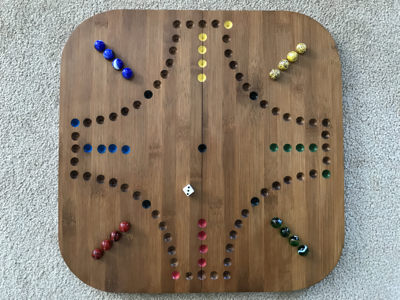
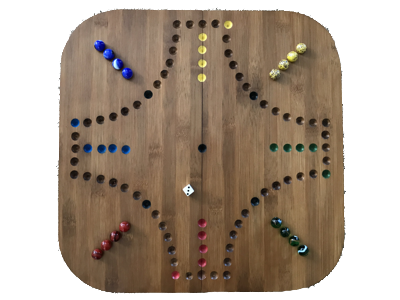
added email confirmations and themes

diff --git a/app/assets/javascripts/marbles.js b/app/assets/javascripts/marbles.js
@@ -270,6 +270,7 @@ $(document).ready(() => {
 		var plays = parseInt(document.getElementById('game_plays').innerHTML);
 		comment = document.getElementById("game_comment").innerHTML;
 		user_name = document.getElementById("user_name").innerHTML.split(" ")[0];
+		user_theme = document.getElementById("user_theme").innerHTML;
 		id = document.getElementById("game_id").innerHTML;
 /* convert strings in page to arrays */	
 		var board = (document.getElementById("game_board").innerHTML).split(",");
@@ -400,6 +401,7 @@ $(document).ready(() => {
 		var turn = parseInt($("#game_turn").val());
 		var comment = $("#game_comment").val();
 		user_name = document.getElementById("user_name").innerHTML.split(" ")[0];
+		user_theme = document.getElementById("user_theme").innerHTML;
 
 /* convert strings in form to arrays */	
 		var board = ($("#game_board").val()).split(","); 
@@ -752,11 +754,11 @@ $(document).ready(() => {
 		}
 		player_name = getPlayerName(color);
 		if (player_name != "") {
-			x = hole_x - 100;
-			y = hole_y + 40;
+			x = hole_x - 120;
+			y = hole_y + 10;
 			labelBoard(x, y, player_name, color, "playername", "leftPlayer");
 			x = hole_x - 100 + 10;
-			y = hole_y + 50 + 25;
+			y = hole_y + 25 + 10;
 			card_count = getCardCount(color);
 			if (card_count>=0) {
 				labelBoard(x, y, card_count, "white", "boardlabel", "leftPlayer")			
@@ -786,12 +788,12 @@ $(document).ready(() => {
 		}
 		player_name = getPlayerName(color);
 		if (player_name != "") {
-			x = hole_x - 60;
+			x = hole_x - 80;
 			y = hole_y - 70;
 			labelBoard(x, y, player_name, color, "playername", "upperPlayer");
 			card_count = getCardCount(color);
 			x = hole_x - 60 + 10;
-			y = hole_y - 60 + 25;
+			y = hole_y - 60 + 15;
 			if (card_count>=0) {
 				labelBoard(x, y, card_count.toString(), "white", "boardlabel", "upperPlayer")			
 			} else {
@@ -821,12 +823,12 @@ $(document).ready(() => {
 		/* Draw the players name */
 		player_name = getPlayerName(color);
 		if (player_name != "") {
-			x = hole_x + 80;
-			y = hole_y - 60;
+			x = hole_x + 40;
+			y = hole_y - 30;
 			labelBoard(x, y, player_name, color, "playername", "rightPlayer");
 			card_count = getCardCount(color);
-			x = hole_x + 80 + 10;
-			y = hole_y - 50 + 25;
+			x = hole_x + 60 + 10;
+			y = hole_y - 30 + 25;
 			if (card_count>=0) {
 				labelBoard(x, y, card_count.toString(), "white", "boardlabel", "rightPlayer")			
 			} else {
@@ -857,8 +859,8 @@ $(document).ready(() => {
 		/* Draw the players name */
 		player_name = getPlayerName(color);
 		if (player_name != "") {
-			x = hole_x + 20;
-			y = hole_y + 50;
+			x = hole_x + 5;
+			y = hole_y + 60;
 			labelBoard(x, y, player_name, color, "playername", "lowerPlayer");
 			/* Draw the players card count */
 			card_count = getCardCount(color);
@@ -873,10 +875,15 @@ $(document).ready(() => {
 		
 		
 	/* Display all the marbles on the board */
+		if (user_theme == "Labeled Marbles") {
+			theme_str = "_t2";
+		} else {
+			theme_str = "_t1";
+		}
 		for (i=0; i<=96; i++) {
 			if (board[i]) {
 				marble_id = board[i];
-				marble_image = "/assets/" + marble_id.substring(0,1) + "_marble.png"
+				marble_image = "/assets/" + marble_id.substring(0,1) + "_marble" + theme_str + ".png";
 				placeMarble(i, marble_id, marble_image);
 			}
 		}

diff --git a/app/assets/stylesheets/application.scss b/app/assets/stylesheets/application.scss
@@ -92,15 +92,18 @@ li {
 }
 
 .playername {
-	font-size: 24px;
+	font-size: 20px;
 	font-weight: bold;
 }
 
 .marbles_board {
-	border: 4px solid black;
 	float: left;
 	margin-right: 40px;
 	margin-bottom: 40px;	
+}
+
+.clipart {
+	float: left;
 }
 
 .marbles_logo {
@@ -120,7 +123,8 @@ li {
 }
 
 .page_image {
-	border: 2px solid black;	
+	border: 2px solid black;
+	float: left;	
 }
 
 #discardpile {

diff --git a/db/schema.rb b/db/schema.rb
@@ -10,7 +10,7 @@
 #
 # It's strongly recommended that you check this file into your version control system.
 
-ActiveRecord::Schema.define(version: 2020_10_06_120341) do
+ActiveRecord::Schema.define(version: 2020_11_01_022254) do
 
   create_table "games", options: "ENGINE=InnoDB DEFAULT CHARSET=latin1", force: :cascade do |t|
     t.string "name"
@@ -50,6 +50,11 @@ ActiveRecord::Schema.define(version: 2020_10_06_120341) do
     t.datetime "created_at", null: false
     t.datetime "updated_at", null: false
     t.string "name"
+    t.string "confirmation_token"
+    t.datetime "confirmed_at"
+    t.datetime "confirmation_sent_at"
+    t.string "unconfirmed_email"
+    t.string "theme"
     t.index ["email"], name: "index_users_on_email", unique: true
     t.index ["reset_password_token"], name: "index_users_on_reset_password_token", unique: true
   end

diff --git a/app/controllers/application_controller.rb b/app/controllers/application_controller.rb
@@ -10,7 +10,7 @@ class ApplicationController < ActionController::Base
     protected
 
         def configure_permitted_parameters
-            devise_parameter_sanitizer.permit(:sign_up, keys: [:email, :password, :password_confirmation, :name]) 
-            devise_parameter_sanitizer.permit(:account_update, keys: [:email, :password, :password_confirmation, :name])
+            devise_parameter_sanitizer.permit(:sign_up, keys: [:email, :password, :password_confirmation, :name, :theme]) 
+            devise_parameter_sanitizer.permit(:account_update, keys: [:email, :password, :password_confirmation, :name, :theme])
         end
 end

diff --git a/app/models/user.rb b/app/models/user.rb
@@ -2,7 +2,8 @@ class User < ApplicationRecord
   # Include default devise modules. Others available are:
   # :confirmable, :lockable, :timeoutable, :trackable and :omniauthable
   devise :database_authenticatable, :registerable,
-         :recoverable, :rememberable, :validatable
+         :recoverable, :rememberable, :validatable,
+         :confirmable
          
   validates :name, presence: true
   

diff --git a/db/migrate/20201031144847_add_confirmation_to_users.rb b/db/migrate/20201031144847_add_confirmation_to_users.rb
@@ -1,0 +1,8 @@
+class AddConfirmationToUsers < ActiveRecord::Migration[5.2]
+  def change
+    add_column :users, :confirmation_token, :string
+    add_column :users, :confirmed_at, :datetime
+    add_column :users, :confirmation_sent_at, :datetime
+    add_column :users, :unconfirmed_email, :string
+  end
+end

diff --git a/db/migrate/20201101022254_add_theme_to_users.rb b/db/migrate/20201101022254_add_theme_to_users.rb
@@ -1,0 +1,5 @@
+class AddThemeToUsers < ActiveRecord::Migration[5.2]
+  def change
+    add_column :users, :theme, :string
+  end
+end
